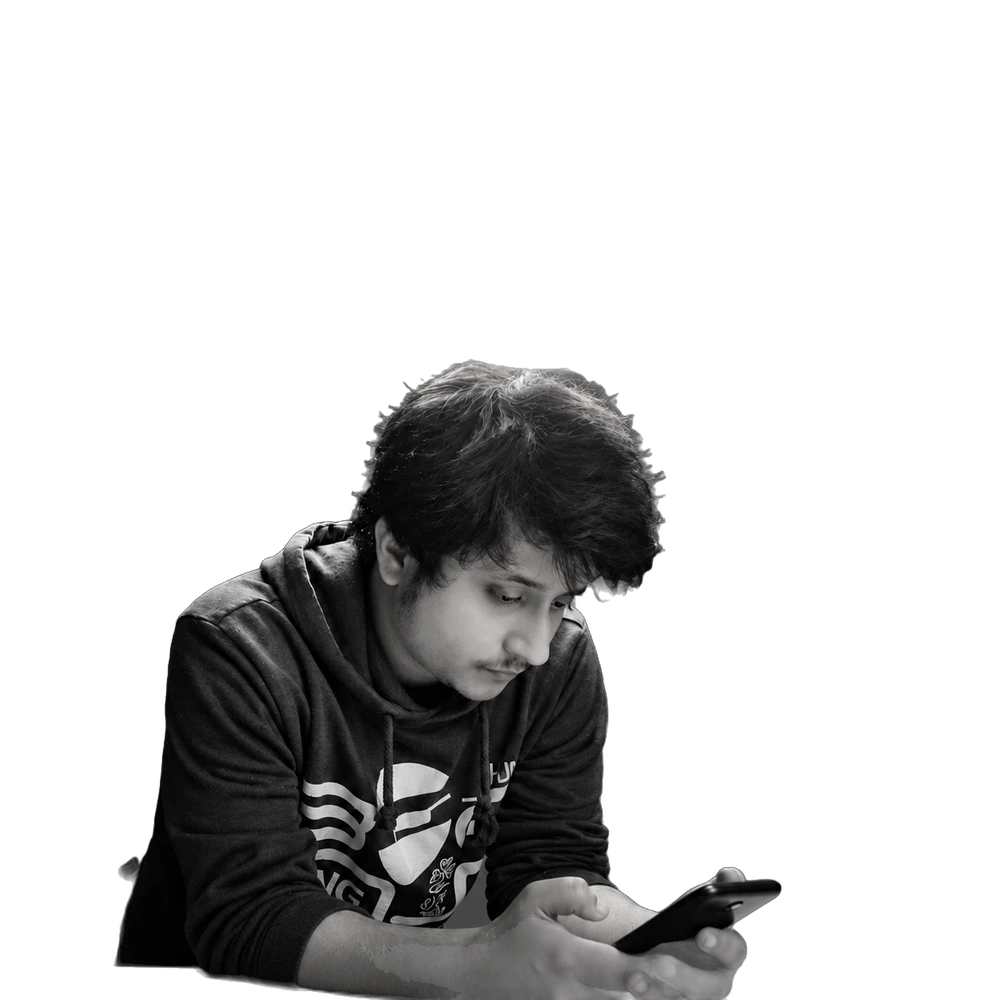
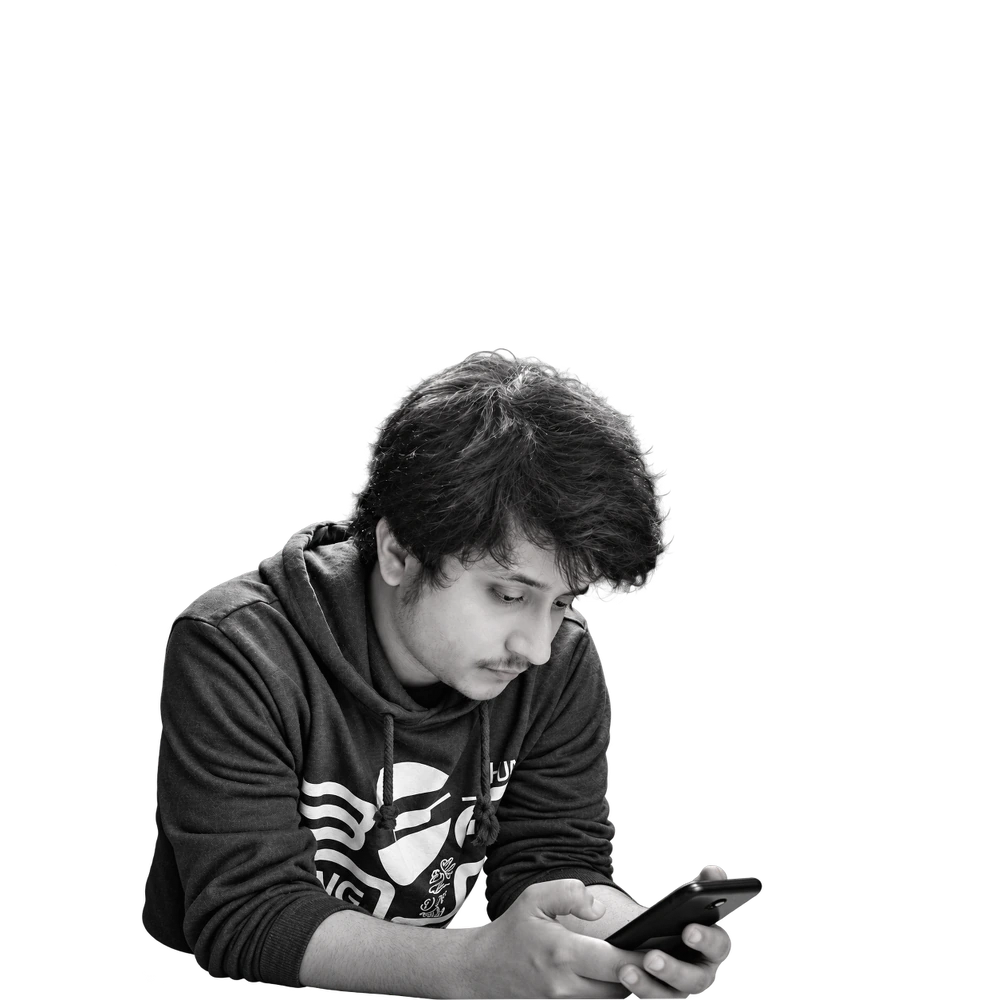
01b: rebuilt to the brief — his cutout over the photo, 1.22× 01's composition
His own cutout (a tighter crop of the same shot) registered to the photo's
frame and laid over it; the circle shows the photo with him in it, the
cutout hides him and rises above the circle as 01's mask does. The whole
composition is 1.22 × 01's (T = width / 1.613), cards back at 02b's spots;
the stage is pinned at 1.5 T and the glass panel keeps the text's height.
The first pass had read "1.5×" as a 1.5 scale.

Claude-Session: https://claude.ai/code/session_01XfFywDmuMByKX4aTc2T151

Changed region(s): [[0.093, 0.341, 0.775, 1.0]]

diff --git a/src/components/hero/hero.css b/src/components/hero/hero.css
@@ -89,33 +89,28 @@
 @keyframes float { 0%, 100% { transform: translateY(0); } 50% { transform: translateY(-7px); } }
 @media (prefers-reduced-motion: reduce) { .fcd-in { animation: none; } }
 
-/* ---- v2 (01b, Nitish 12 Oct): the card on his desk photo ----
+/* ---- v2 (01b, Nitish 12–13 Oct): the card on his desk photo ----
    The card's ground is the photo itself, blurred past recognition and darkened, so the card takes the photo's tones; the
-   text sits in a liquid-glass panel; the circle is a window onto the photo (background and all, same geometry as the
-   cutout above it), the cutout rises free above it; the composition is 1.5× the 01 size, which this card's height only
-   allows if the panel overlaps the circle — --ov is that overlap (25% of the card = 1.5× at 1440). Dark in both themes,
-   so the glass uses the dark set and the CV button stays light. */
-.hero.v2 { container-type: size; --ov: 25cqh; --disc: transparent; --ring: rgba(222, 222, 230, .5);
+   text sits in a liquid-glass panel at the bottom; the circle is a window onto the photo (him in it, background and
+   all) and his own cutout lies over it in the same frame, hiding him inside the photo and rising free above the circle,
+   masked by it below — 01's geometry. Everything (figure, circle, stroke, cards) is 1.22 × 01's: 01's tile height is the
+   card's width / 1.968 at 1440, so here T = width / 1.613. The stage is pinned under the notch band at that height
+   and the glass panel takes the text's height, so where the two meet is what's left: at 1440 the panel covers the
+   circle's lowest third, blurred. Dark in both themes, so the glass uses the dark set and the CV button stays light. */
+.hero.v2 { container-type: size; --disc: transparent; --ring: rgba(222, 222, 230, .5);
   --glass-hi: rgba(255, 255, 255, .14); --glass-lo: rgba(255, 255, 255, .04); --glass-rim: rgba(255, 255, 255, .28); --glass-spec: rgba(255, 255, 255, .5); }
 .hero.v2 .face, .hero.v2 .hero-proj { background: #1b1b1e; color: #fff; }
 .hero.v2 .face::before, .hero.v2 .hero-proj::before { content: ""; position: absolute; inset: -12%; background: url('../../assets/nitish-desk.webp') center / cover no-repeat; filter: blur(34px) brightness(.72); pointer-events: none; }
 .hero.v2 .face > *, .hero.v2 .hero-proj > * { position: relative; }
 .hero.v2 .notch, .hero.v2 .notch-btn, .hero.v2 .tap-hint { position: absolute; }
-/* the desk photo: the person from the head's top to the desk is 64% of its height and maps to 1.5 T (the 02b figure's
-   height), so the photo is 2.34 T tall, shifted up by the 36% above the head; the shoulders' centre is at 45% of its width */
-.hero.v2 .stage { margin-bottom: calc(-1 * var(--ov)); z-index: 1; --zoom: 1; --fx: 45%; --ph: 2.34; --oy: -.36; }
-/* the glass panel sits over the composition's lower part: the circle's lower half shows through it, blurred, the head and
-   shoulders rise clear above its top edge */
-.hero.v2 .hero-text { z-index: 2; margin: 0; padding: 16px; border-radius: 16px; }
+/* the desk photo: the person, head's top to the desk, is 65% of its height and maps to 1.5 T (01's figure height), so the
+   photo is 2.3 T tall, shifted up by the 35% above the head; centred between the shoulders' line and the head's (45%) */
+.hero.v2 .stage { position: absolute; left: 0; right: 0; top: 44px; height: calc(1.5 * var(--T)); margin: 0; flex: none; z-index: 1;
+  --T: calc(100cqw / 1.613); --zoom: 1; --fx: 45%; --ph: 2.3; --oy: -.348; }
+.hero.v2 .hero-text { z-index: 2; margin: auto 0 0; padding: 16px; border-radius: 16px; }
 .hero.v2 .hero-text > * { position: relative; }
 .hero.v2 .fg-photo { clip-path: circle(var(--rd) at 50% calc(.933 * var(--T))); z-index: 0; }
 .hero.v2 .fg-photo .fg-person { filter: none; }
-/* the bust fills the card's width, so the cards sit beside the head rather than on the arm: B over the left shoulder,
-   the loader by the right shoulder, the coin behind the hair's right side (02b: behind the shoulder) */
-.hero.v2 .fcd.ai { left: 3% !important; --ty: .34; }
-.hero.v2 .fcd.loader-card { left: auto !important; right: 3%; --ty: .52; }
-.hero.v2 .fcd.coin-card { left: 70% !important; --ty: -.04; }
-.hero.v2 .fg-shape.alt { --ty: .62; } .hero.v2 .fg-shape.tri { left: 12%; --ty: .78; } .hero.v2 .fg-shape { --ty: .86; }
 .hero.v2 .hero-cta .btn { background: var(--on-peri); color: var(--coal); }
 .hero.v2 .hero-cta .pill { border-color: rgba(255, 255, 255, .42); }
 .hero.v2 .face.back { background: #1b1b1e; }

diff --git a/LOG.md b/LOG.md
@@ -46,17 +46,13 @@ Route: `/lab/01-sheet`. Composition: Nitish's requirements + ref 1 styling.
 
 ### 01b — the v2 intro card (sub-iteration, Nitish, 12–13 Oct)
 
-Route: `/lab/01b-sheet`, the same component as 01 with `variant="b"` (Hero `v2`); only the intro card changes, so every change to 01's shell and tiles carries over. Photo: `docs/refs/photo-4-desk-bw.png` (his b&w desk portrait with the ring light); cut out with rembg (isnet-general-use; the largest alpha component kept, faint remnants crushed) → `src/assets/nitish-desk-cutout.webp`, the photo itself `src/assets/nitish-desk.webp`, both 1000 × 1000 so they share one geometry.
+Route: `/lab/01b-sheet`, the same component as 01 with `variant="b"` (Hero `v2`); only the intro card changes, so every change to 01's shell and tiles carries over. Photo: `docs/refs/photo-4-desk-bw.png` (his b&w desk portrait under the ring light) and his own cutout of it, `docs/refs/photo-4-desk-cutout-nitish.png` (13 Oct; it supersedes the rembg cutout from the first pass). His cutout is a tighter crop of the same shot, so it was registered to the photo's frame by feature matching (631 inliers, scale .659, 1.5px median residual) and re-rendered into that frame → `src/assets/nitish-desk-cutout.webp`; the photo is `src/assets/nitish-desk.webp`; both 1000 × 1000, one geometry.
 
-**What he asked (12 Oct):** his cutout free above the circle and masked by it below, as before; the circle's background the photo's own background; the card's purple replaced by the photo blurred past recognition, so the card takes the photo's tones; the text in a glass container; the circle, the figure and the floating cards 1.5× bigger; the figure overlapping the glass container a little from the bottom.
+**The brief (Nitish, 12–13 Oct):** the circle shows the photo itself, him in it, background and all; his cutout lies over it in the same place, hiding him inside the photo, and rises free above the circle's top, masked by it below — the mask as first decided (02b, 01 v12); the card's purple becomes the photo blurred past recognition, so the card goes with the photo's tones; the text in a glass container; and everything — picture, circle, stroke, floating cards — **22% bigger than 01 was before these changes** (his "1.5×" meant this, not a 1.5 scale; the first pass misread it and built 1.5× with the cards moved — rebuilt on 13 Oct).
 
-**Built:** the card's ground is the photo at 12% overscan, blur 34px, brightness .72 (front, back and project faces alike); the circle is a window onto the photo (`.fg-photo`, `clip-path: circle`, the same box and image geometry as the cutout) — no disc; the cutout rises over it with the same mask as 01; the stroke stays. The text panel is the liquid-glass recipe from 02 (the dark set, since the card is dark in both themes); the CV button stays light. The photo's person (head's top to the desk, 64% of its height) maps to 1.5 T, the 02b figure's height, so the photo is 2.34 T tall and shifted up by the 36% above the head; it covers the circle to its bottom (1.481 T) with 2% to spare — the ring light stays out of the window. The head is then ~.77 T — the proportion the 1.5× zoom gave on 01 (v17). Centred on the shoulders' line at 45% of the photo's width (the body leans left, the head tilts right; the head sits 6% right of centre).
+**Built:** T = the card's width / 1.613, which is 1.22 × 01's tile height at 1440 (231px vs 189); the stage is pinned under the notch band at 1.5 T; the photo's person (head's top to the desk, 65% of the photo) maps to 1.5 T as 01's figure did, so the photo is 2.3 T tall, shifted up by the 35% above the head, centred at 45% of its width (between the shoulders' line and the head's); the window onto it is `clip-path: circle` on the same box as the cutout's clip. Cards at 02b's fractions, sized to T (so 1.22×). The card's ground: the photo at 12% overscan, blur 34px, brightness .72, on all three faces; the glass panel is 02's liquid-glass recipe with the dark set (the card is dark in both themes); the CV button stays light. The glass panel sits at the bottom with the text's height, so where it meets the composition is what the card's height leaves: at 1440 it covers the circle's lowest third (hands, phone, desk show through it, blurred); the panel is above the figure there, so the name stays legible. On a phone the overlap is smaller.
 
-**The conflict, stated plainly:** at this card's height (665px at 1440) 1.5× (T 283, the composition 425px tall) and "a little overlap" cannot both hold with the text block as it is (~340px in the glass): 1.5× is only possible with the glass panel over the circle's lower half (`--ov: 25cqh`, 166px), so the hands, phone and desk show through the glass, blurred, and the head and shoulders rise clear above the panel. With a small overlap the composition would be no bigger than 01's. The levers, his call: the name on one line and the CTAs on one row (~90px); smaller type; or accept the panel over the circle's lower half (as built). The z-order follows from this: the glass panel is above the circle, the figure disappears into it rather than overlapping it.
-
-**Cards:** sized to the figure as on 01 (v14), so 1.5× with it. The bust fills the card's width, so they sit beside the head rather than on the arm (Claude's call): B over the left shoulder, the loader by the right shoulder, the coin behind the hair's right side — "behind the shoulder" became "behind the hair", and two thirds of it hide. The small shapes moved down the sides.
-
-**Open:** the zoom/overlap trade above; the coin card's spot; the Off duty tile and the rest of the shell are 01's.
+**Notes:** the coin card, "behind the shoulder" on 02b, is behind the hair here (two thirds hidden) — its spot is his call; the amber ring at the left sits partly behind the hood; the Off duty tile and the rest of the shell are 01's.
 
 **History**
 - v17 — (Nitish: too zoomed, and not centred) the photo at **1.5×**, and centred by the **shoulders**: the cutout's box is wider on its right (the arm with the phone), so the box's centre sat 4% of the image left of the body's; measured on the alpha, the shoulders' midpoint is at 46% of the width, and that line now sits on the circle's centre (`--fx`), with the zoom scaling about it from the top. Checked: the head's silhouette centre within 3px of the disc's centre at 1440.
